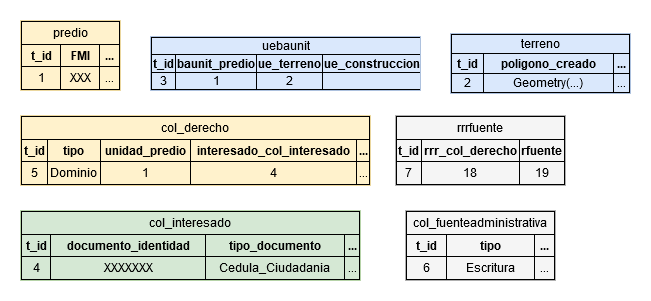
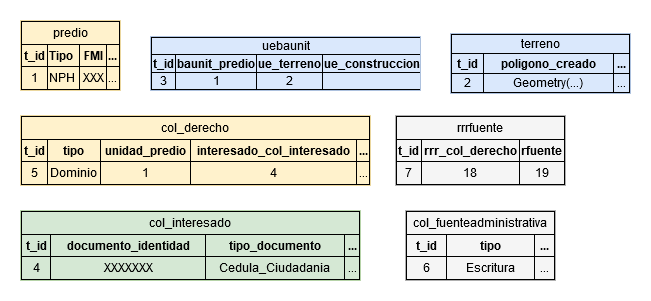
Se modifica el caso de lote de acuerdo a actualización al modelo

Changed region(s): [[0.0307, 0.1495, 0.1843, 0.2093], [0.0307, 0.2392, 0.1843, 0.299]]

diff --git a/lote/README.md b/lote/README.md
@@ -13,7 +13,7 @@ Para representar este caso de acuerdo a LADM se necesitarán de las siguientes t
 # Flujo de almacenamiento
 
 1. **Llenar tabla Terreno**: En esta tabla se agregan los datos relacionados con la representación espacial, tales como el área y la geometría, del polígono de terreno (verde)
-2. **Llenar tabla Predio**: En esta tabla se agregan datos alfanuméricos del predio, tales como el Número Predial, FMI, etc.
+2. **Llenar tabla Predio**: En esta tabla se agregan datos alfanuméricos del predio, tales como el Número Predial, FMI, etc; eligiendo como Tipo el valor "NPH".
 3. **Llenar relación UEBAUnit vinculando Terreno con Predio**
 4. **Llenar tabla COL_Interesado**: Esta tabla contiene los datos de la persona (natural o jurídica) que ejerce algún derecho sobre el predio
 8. **Llenar tabla COL_FuenteAdministrativa**: Esta tabla contiene la información de los documentos que soportan los diferentes derechos existentes
